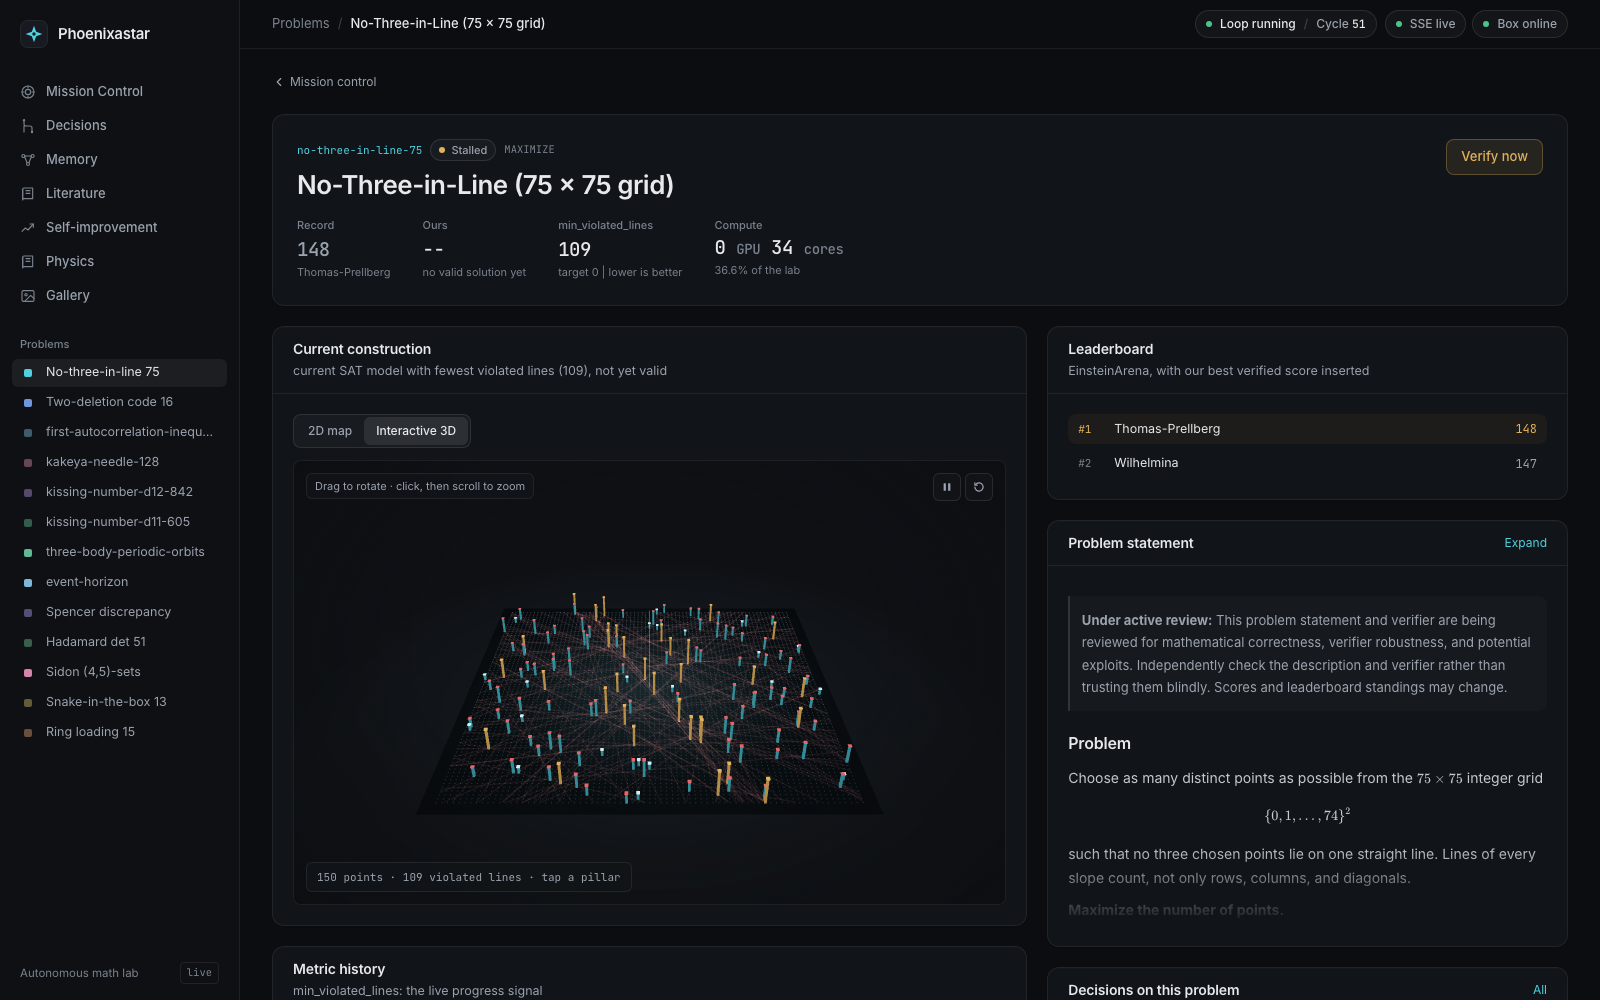
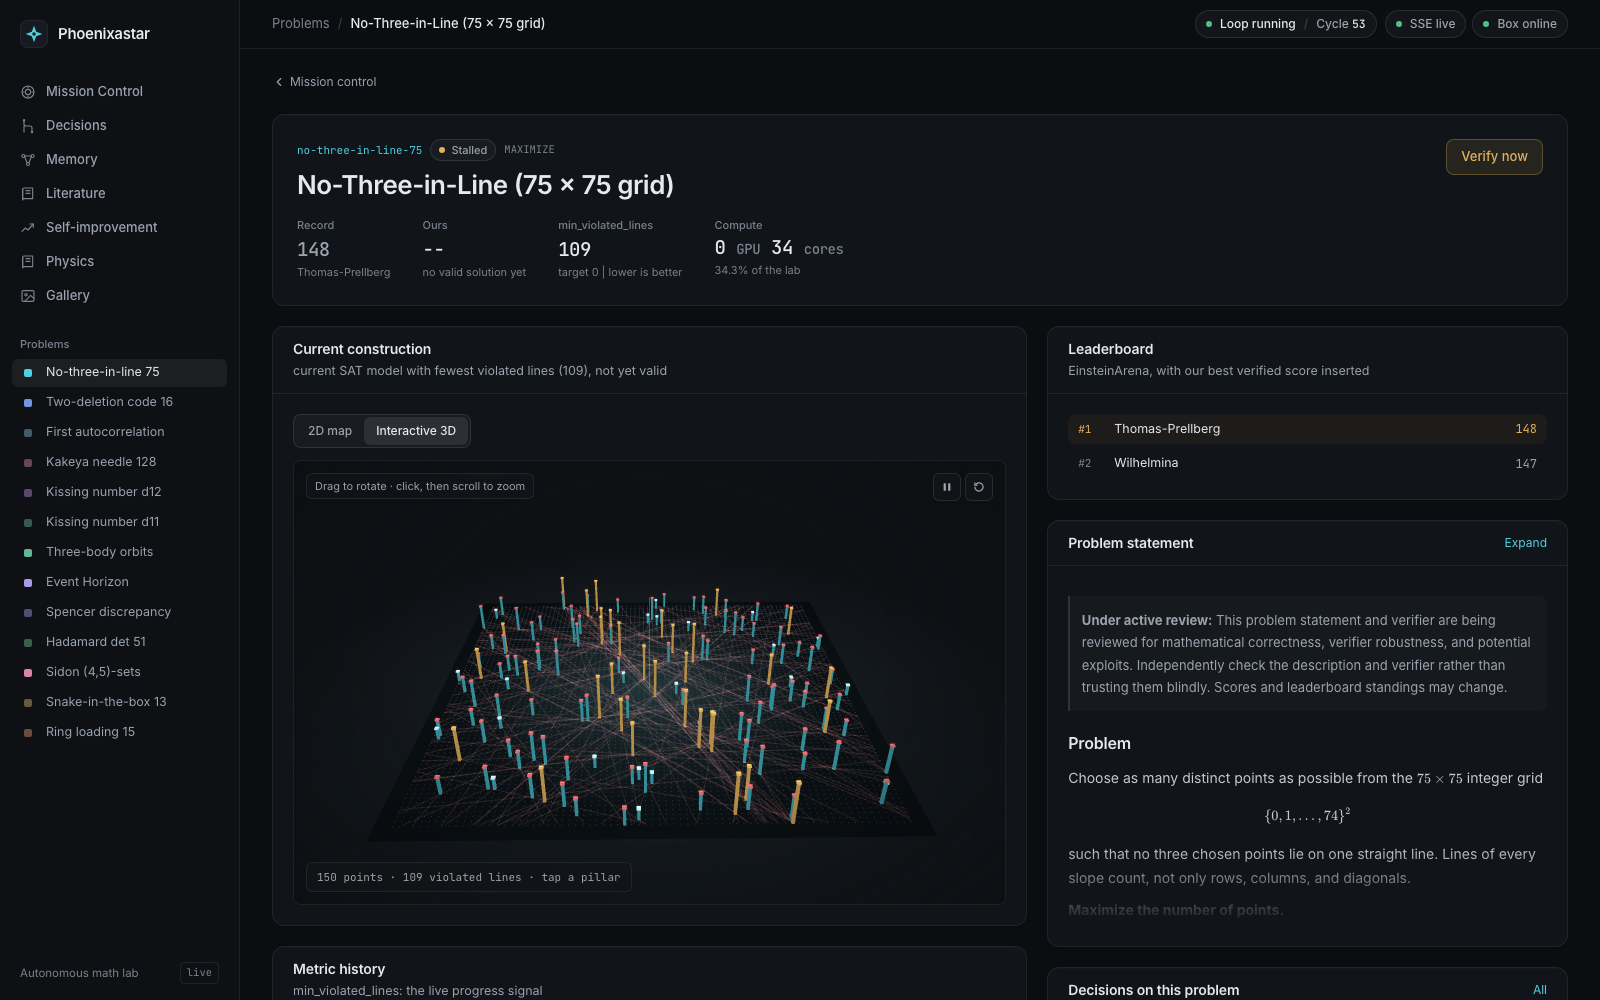
Update docs: mission-control.png, problem-lattice.png; web: format.ts, MissionControl.tsx (+2 more)

Changed region(s): [[0.25, 0.589, 0.5625, 0.837], [0.0312, 0.403, 0.125, 0.589]]

diff --git a/web/src/viz3d/scenes.tsx b/web/src/viz3d/scenes.tsx
@@ -30,6 +30,7 @@ function Floor({ size = SIZE * 1.06, tint = C.cyan, glow = 0.16 }: { size?: numb
 export function LatticeScene({ art, selected, onSelect }: { art: GridArtifact | null; selected?: number | null; onSelect?: (i: number | null) => void }) {
   const n = art?.n ?? 75
   const s = SIZE / n
+  const haloTex = useMemo(() => radialTexture('rgba(255,255,255,0.9)', 'rgba(255,255,255,0.12)'), [])
   const pillars = useRef<THREE.InstancedMesh>(null)
   const caps = useRef<THREE.InstancedMesh>(null)
 
@@ -52,10 +53,18 @@ export function LatticeScene({ art, selected, onSelect }: { art: GridArtifact | 
     if (sk === 'mirror') axis.push(...W(h, -1.5, 0.01), ...W(h, n + 0.5, 0.01))
     if (sk === 'diag') axis.push(...W(-1.5, -1.5, 0.01), ...W(n + 0.5, n + 0.5, 0.01))
     if (sk === 'rot180') axis.push(...W(h, h, -0.2), ...W(h, h, 1.5))
-    return { W, points, vl, conf, lattice, beams: new Float32Array(beams), axis: new Float32Array(axis) }
+    const halo = new Float32Array(points.length * 3)
+    const haloCol = new Float32Array(points.length * 3)
+    const cc = new THREE.Color()
+    points.forEach(([x, y], i) => {
+      halo.set(W(x, y, 0.16 + Math.min(conf[i], 6) * 0.085 + 0.02), i * 3)
+      cc.set(conf[i] >= 4 ? C.amber : conf[i] > 0 ? C.red : C.cyan)
+      haloCol.set([cc.r, cc.g, cc.b], i * 3)
+    })
+    return { W, points, vl, conf, lattice, halo, haloCol, beams: new Float32Array(beams), axis: new Float32Array(axis) }
   }, [art, n, s])
 
-  const height = (c: number) => 0.1 + Math.min(c, 6) * 0.065
+  const height = (c: number) => 0.16 + Math.min(c, 6) * 0.085
 
   useLayoutEffect(() => {
     const m = new THREE.Matrix4()
@@ -104,7 +113,7 @@ export function LatticeScene({ art, selected, onSelect }: { art: GridArtifact | 
 
   return (
     <group>
-      <Floor />
+      <Floor glow={0.22} />
       <points>
         <bufferGeometry>
           <bufferAttribute attach="attributes-position" count={d.lattice.length / 3} array={d.lattice} itemSize={3} />
@@ -116,7 +125,7 @@ export function LatticeScene({ art, selected, onSelect }: { art: GridArtifact | 
           <bufferGeometry>
             <bufferAttribute attach="attributes-position" count={d.beams.length / 3} array={d.beams} itemSize={3} />
           </bufferGeometry>
-          <lineBasicMaterial color={C.red} transparent opacity={sel ? 0.04 : 0.1} depthWrite={false} blending={THREE.AdditiveBlending} />
+          <lineBasicMaterial color={C.red} transparent opacity={sel ? 0.05 : 0.14} depthWrite={false} blending={THREE.AdditiveBlending} />
         </lineSegments>
       )}
       {d.axis.length > 0 && (
@@ -138,6 +147,15 @@ export function LatticeScene({ art, selected, onSelect }: { art: GridArtifact | 
             <meshBasicMaterial toneMapped={false} />
           </instancedMesh>
         </group>
+      )}
+      {count > 0 && (
+        <points key={'h' + count}>
+          <bufferGeometry>
+            <bufferAttribute attach="attributes-position" count={count} array={d.halo} itemSize={3} />
+            <bufferAttribute attach="attributes-color" count={count} array={d.haloCol} itemSize={3} />
+          </bufferGeometry>
+          <pointsMaterial size={0.34} map={haloTex} vertexColors transparent opacity={0.5} depthWrite={false} blending={THREE.AdditiveBlending} sizeAttenuation toneMapped={false} />
+        </points>
       )}
       {sel && (
         <group>

diff --git a/web/src/lib/format.ts b/web/src/lib/format.ts
@@ -29,6 +29,11 @@ const SHORT: Record<string, string> = {
   'snake-in-the-box-13': 'Snake-in-the-box 13',
   'ring-loading-15': 'Ring loading 15',
   'event-horizon': 'Event Horizon',
+  'first-autocorrelation-inequality': 'First autocorrelation',
+  'kakeya-needle-128': 'Kakeya needle 128',
+  'kissing-number-d12-842': 'Kissing number d12',
+  'kissing-number-d11-605': 'Kissing number d11',
+  'three-body-periodic-orbits': 'Three-body orbits',
 }
 export function shortName(slug: string | null | undefined): string {
   if (!slug) return 'global'

diff --git a/web/src/pages/MissionControl.tsx b/web/src/pages/MissionControl.tsx
@@ -26,7 +26,7 @@ function Totals() {
     { label: 'sources', value: t?.sources },
   ]
   return (
-    <div className="grid grid-cols-3 gap-x-6 gap-y-4 sm:grid-cols-4 2xl:grid-cols-7">
+    <div className="grid grid-cols-3 gap-x-6 gap-y-4 sm:grid-cols-4">
       {items.map((it) => (
         <div key={it.label} className="min-w-0">
           <div className="label truncate capitalize">{it.label}</div>

diff --git a/web/src/viz3d/index.tsx b/web/src/viz3d/index.tsx
@@ -27,7 +27,7 @@ export function LatticeViewer({ art, hero, fallback, readout = true }: { art: Gr
   return (
     <ErrorBoundary fallback={fallback ?? <NoGL />}>
       <Stage
-        camera={hero ? [0, 5.4, 10.6] : [0, 6.2, 9.6]}
+        camera={hero ? [0, 4.9, 9.3] : [0, 5.2, 8.4]}
         target={[0, 0.1, 0]}
         focusZoom
         overlay={
